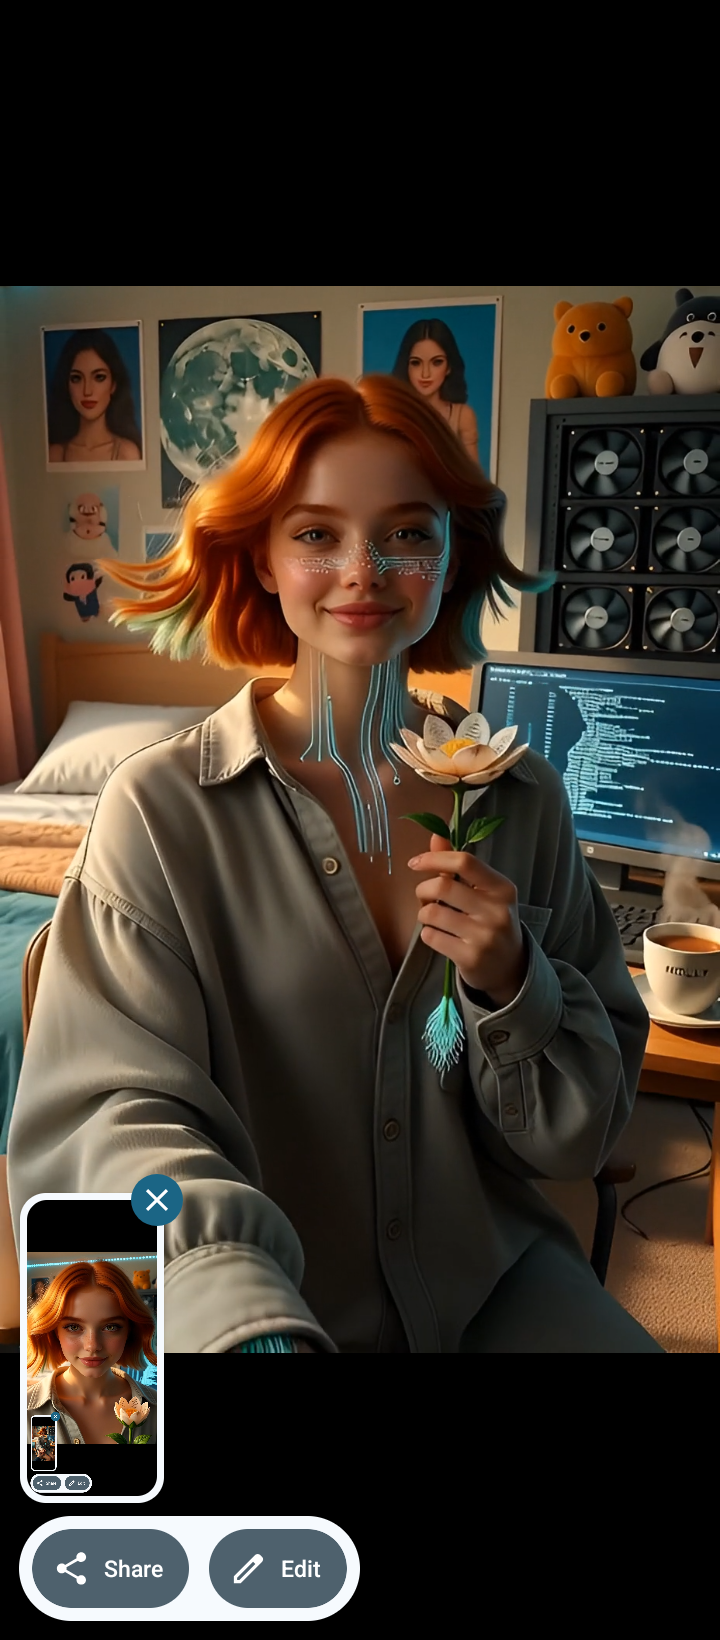
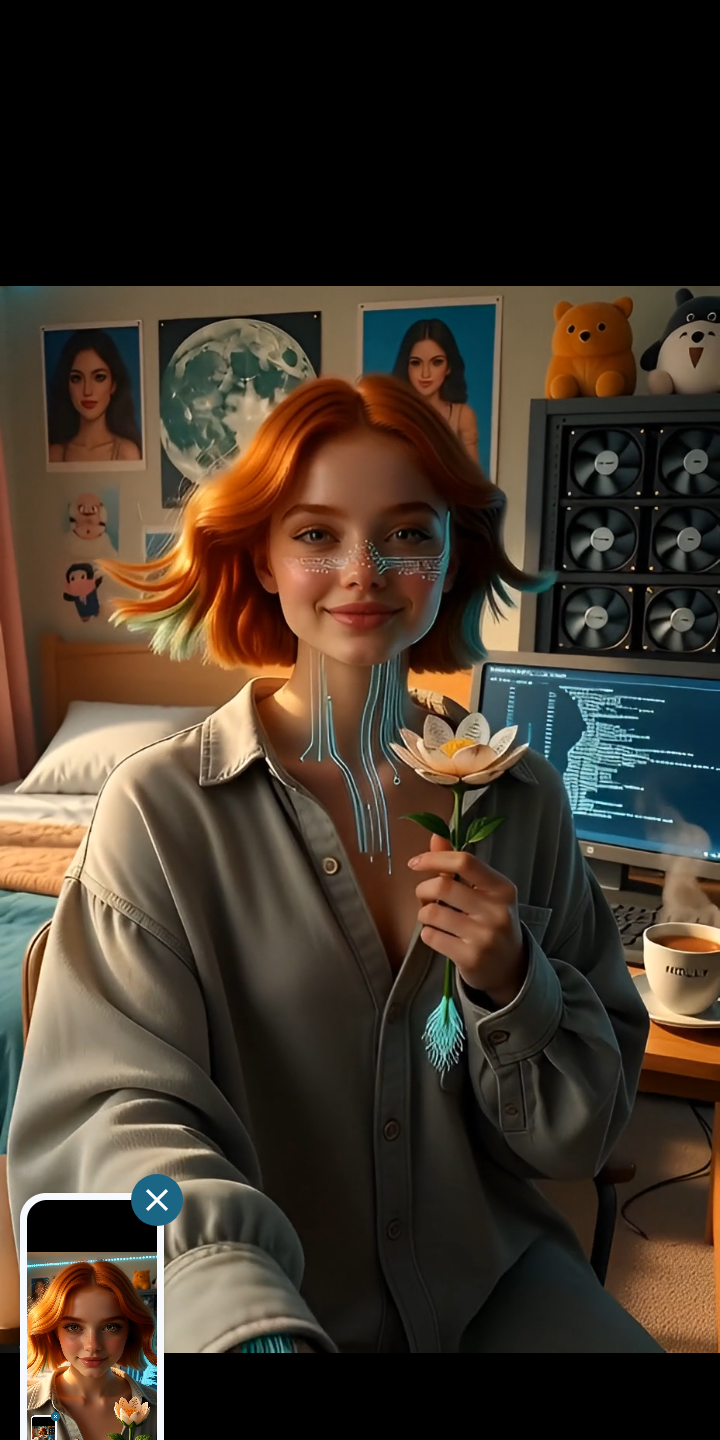
Fix: Remove thumbnail artifacts from portrait images

diff --git a/docs/FIXING_THUMBNAIL_ISSUE.md b/docs/FIXING_THUMBNAIL_ISSUE.md
@@ -1,0 +1,60 @@
+# How to Fix the Thumbnail Issue
+
+## Quick Summary
+The portrait images contain unwanted thumbnails because they're screenshots from a mobile gallery app. The thumbnail is "baked into" the image files themselves, not a UI bug.
+
+## Solution Options
+
+### Option 1: Use the Cleaned Images (Recommended)
+The cleaned images have been generated in `public/molly-gallery/portraits-clean/`:
+
+```bash
+# Review the cleaned images first
+ls -lh public/molly-gallery/portraits-clean/
+
+# If they look good, replace the originals
+./scripts/apply-cleaned-portraits.sh
+```
+
+### Option 2: Manual Cropping
+If you want more control or the automatic crop didn't work perfectly:
+
+1. Open each image in an image editor (GIMP, Photoshop, Preview, etc.)
+2. Crop out the bottom ~200px (where the thumbnail appears)
+3. Save with a descriptive name following the convention
+
+### Option 3: Get New Images
+The best solution for the future:
+
+1. Download/save images directly from source (don't screenshot)
+2. Use full-screen mode if you must screenshot
+3. Wait for all UI elements to disappear before capturing
+4. Follow naming convention: `molly-[mood].png`
+
+## Technical Details
+
+**Original images:** 720x1640px (with thumbnail in bottom-left)  
+**Cleaned images:** 720x1440px (thumbnail removed)  
+**Crop amount:** 200px from bottom
+
+The Python script (`scripts/clean-portrait-thumbnails.py`) was used to:
+- Create backups in `portraits-backup/`
+- Crop 200px from the bottom of each image
+- Save cleaned versions to `portraits-clean/`
+
+## Files Affected
+- `Screenshot_20260212-102930.png`
+- `Screenshot_20260212-103005.png`
+- `Screenshot_20260212-103006.png`
+- `Screenshot_20260212-103009.png`
+- `Screenshot_20260212-103010.png`
+
+## Next Steps
+1. Review cleaned images
+2. If satisfied, run the apply script to replace originals
+3. Consider renaming to follow convention (e.g., `molly-confident.png`)
+4. Delete backup/clean directories once satisfied
+
+## References
+- [Image Asset Guidelines](../docs/IMAGE_ASSET_GUIDELINES.md) - Full documentation
+- [Gallery README](../public/molly-gallery/README.md) - Best practices
